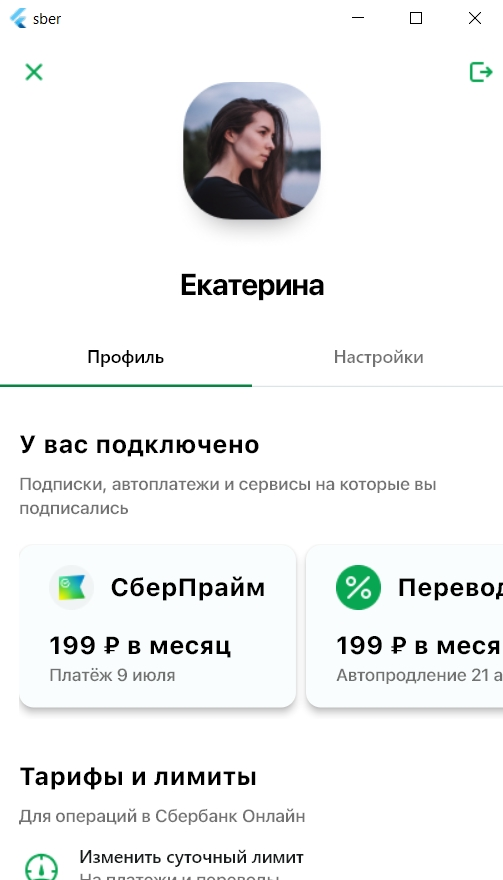
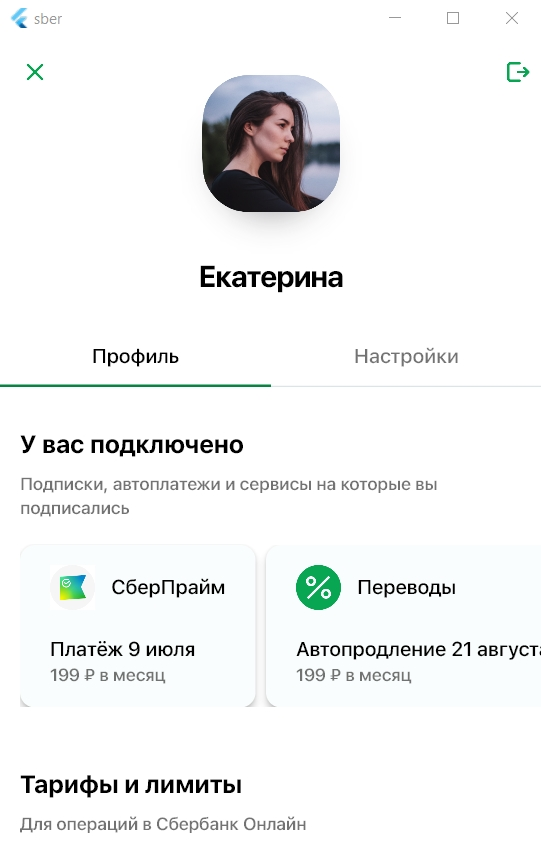
fix fonts

diff --git a/lib/widgets/service_card.dart b/lib/widgets/service_card.dart
@@ -23,13 +23,13 @@ class ServiceCard extends StatelessWidget {
                   const SizedBox(width: 13),
                   Text(
                     service.name,
-                    style: Theme.of(context).textTheme.titleMedium
+                    style: Theme.of(context).textTheme.titleSmall
                   )
                 ],
               ),
               const Expanded(child: SizedBox()),
               Text(service.info,
-                  style: Theme.of(context).textTheme.titleMedium),
+                  style: Theme.of(context).textTheme.titleSmall),
               Text(service.price,
                   style: Theme.of(context).textTheme.bodySmall)
             ],

diff --git a/lib/theme/fonts.dart b/lib/theme/fonts.dart
@@ -26,7 +26,7 @@ abstract class AppFonts {
   static final bodyLarge = TextStyle(
     fontFamily: 'SF Pro Text',
     fontWeight: FontWeight.w500,
-    fontSize: 20,
+    fontSize: 16,
     color: AppColors.textSecondary,
     letterSpacing: -0.4
   );
@@ -42,7 +42,7 @@ abstract class AppFonts {
     fontFamily: 'SF Pro Text',
     fontWeight: FontWeight.w500,
     fontSize: 14,
-    letterSpacing: -0.41,
+    letterSpacing: -0.4,
     color: AppColors.textSecondary,
   );
   static const titleVerySmall = TextStyle(

diff --git a/lib/widgets/appbar.dart b/lib/widgets/appbar.dart
@@ -34,8 +34,8 @@ class Appbar extends StatelessWidget {
         indicatorColor: AppColors.selectedTab,
         indicatorSize: TabBarIndicatorSize.tab,
         tabs: const <Widget>[
-          Tab(child: Text(Strings.profile),),
-          Tab(child: Text(Strings.settings),),
+          Tab(child: Text(Strings.profile)),
+          Tab(child: Text(Strings.settings)), 
         ],
       ),
 
